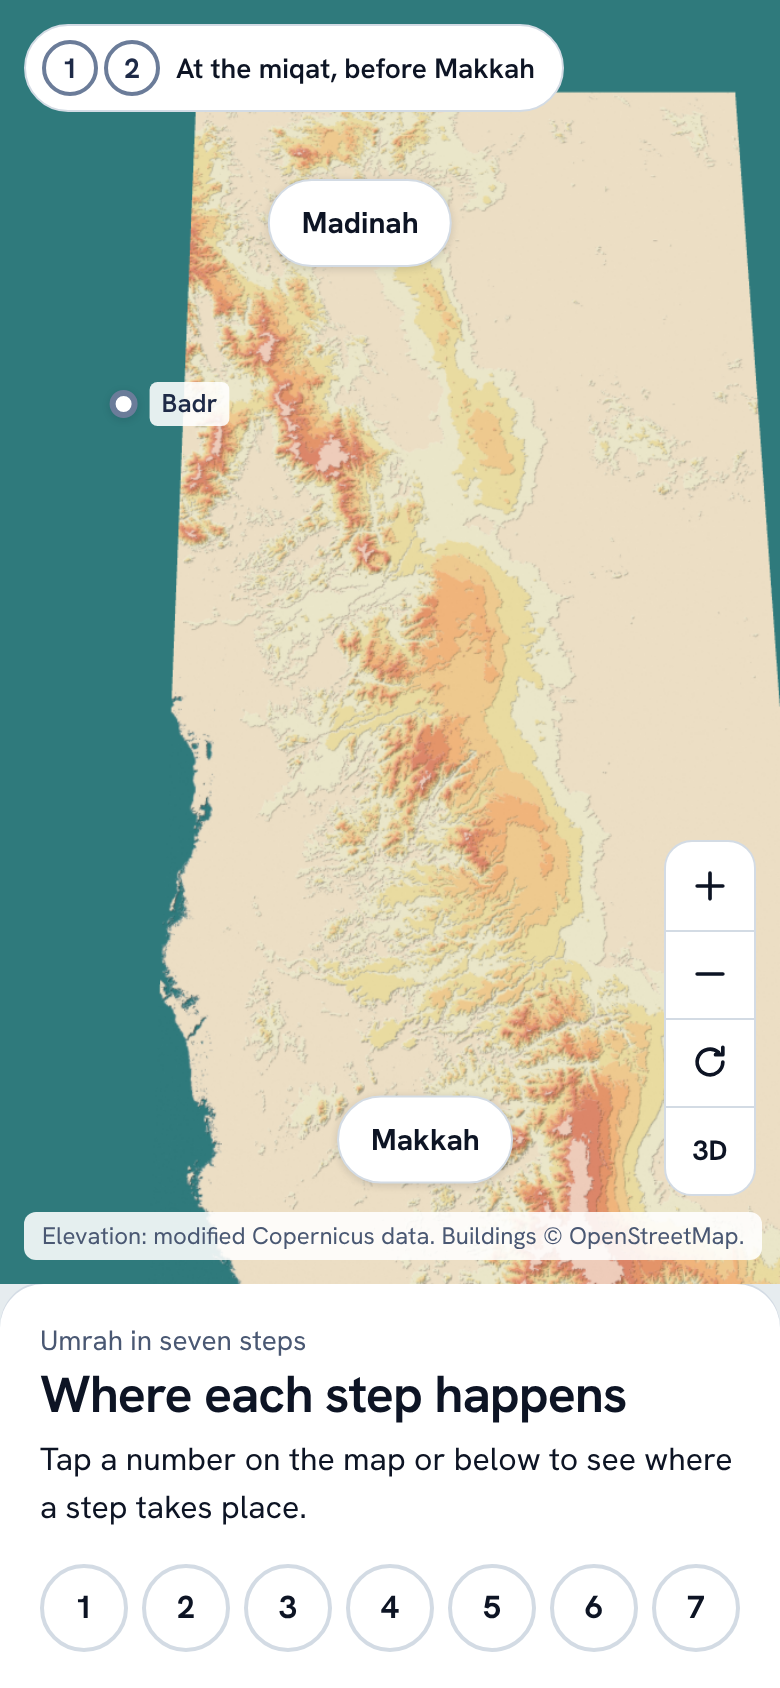
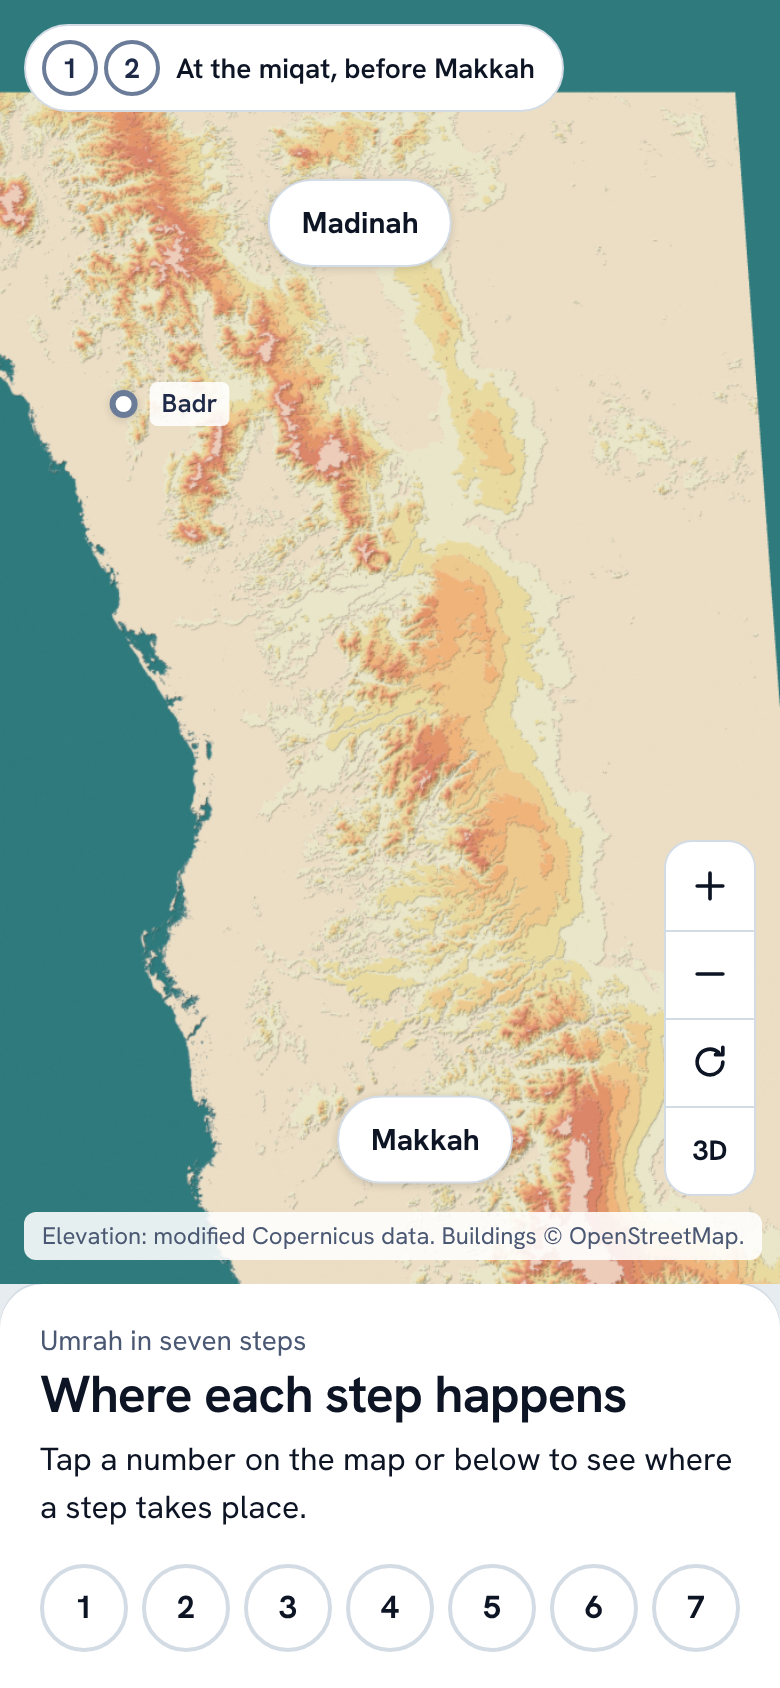
Papercut: re-baked elevation covering 38 to 41 E, so Badr is on land
Region raster 2112x3072 (same 145 m cells); the Makkah and Madinah patches
are unchanged byte for byte.

Claude-Session: https://claude.ai/code/session_01NUgj7sJyWkEi58kYBvQNzB

Changed region(s): [[0.0, 0.0308, 0.2769, 0.4313], [0.1846, 0.5545, 0.2154, 0.5853]]

diff --git a/docs/HANDOVER.md b/docs/HANDOVER.md
@@ -194,7 +194,8 @@ Adopted from branch `claude/hopeful-heisenberg-a1p880` (not merged; reference co
 - **Zoom distances** (camera to city centre), scaled 1.2x from the branch because the real buildings cover about 1.8 km: ground patch fades in 84 to 26 km, footprints 36 to 11 km, buildings rise 3.5 to 1.45 km. Pins fade inside their ranges so sets hand over without overlapping.
 - **Colours:** the owner's (exact) for ground layers 1 to 3 and all objects. Placeholders (not chosen by the owner): ground layers 4 to 8 `#EEC98E #F0B47B #E49469 #DC8669 #EECCBA`, water and map background `#2F7A7C`. Green Dome `#62A69A` is not used yet.
 - **Stage A only:** Makkah rises; Madinah has its ground patch but no 3D buildings. Stage B: Madinah, jump buttons, zoom indicator, performance.
-- **Known limits:** the terrain covers 39 to 41 E only, so Badr (38.8 E) sits on the water colour; the region ground is 145 m per cell (stepped look between about 5 and 30 km); frame rate not measured on a real phone.
+- **Owner's decisions (17 Nov 2026):** keep the homes colour for now; the colour key is a Key button, closed by default; elevation widened to 38 to 41 E (re-baked, 12 Copernicus tiles) so Badr and its coast are on land.
+- **Known limits:** the region ground is 145 m per cell (stepped look between about 5 and 30 km); frame rate not measured on a real phone.
 
 ## Later feature ideas from the owner (not scheduled)
 
